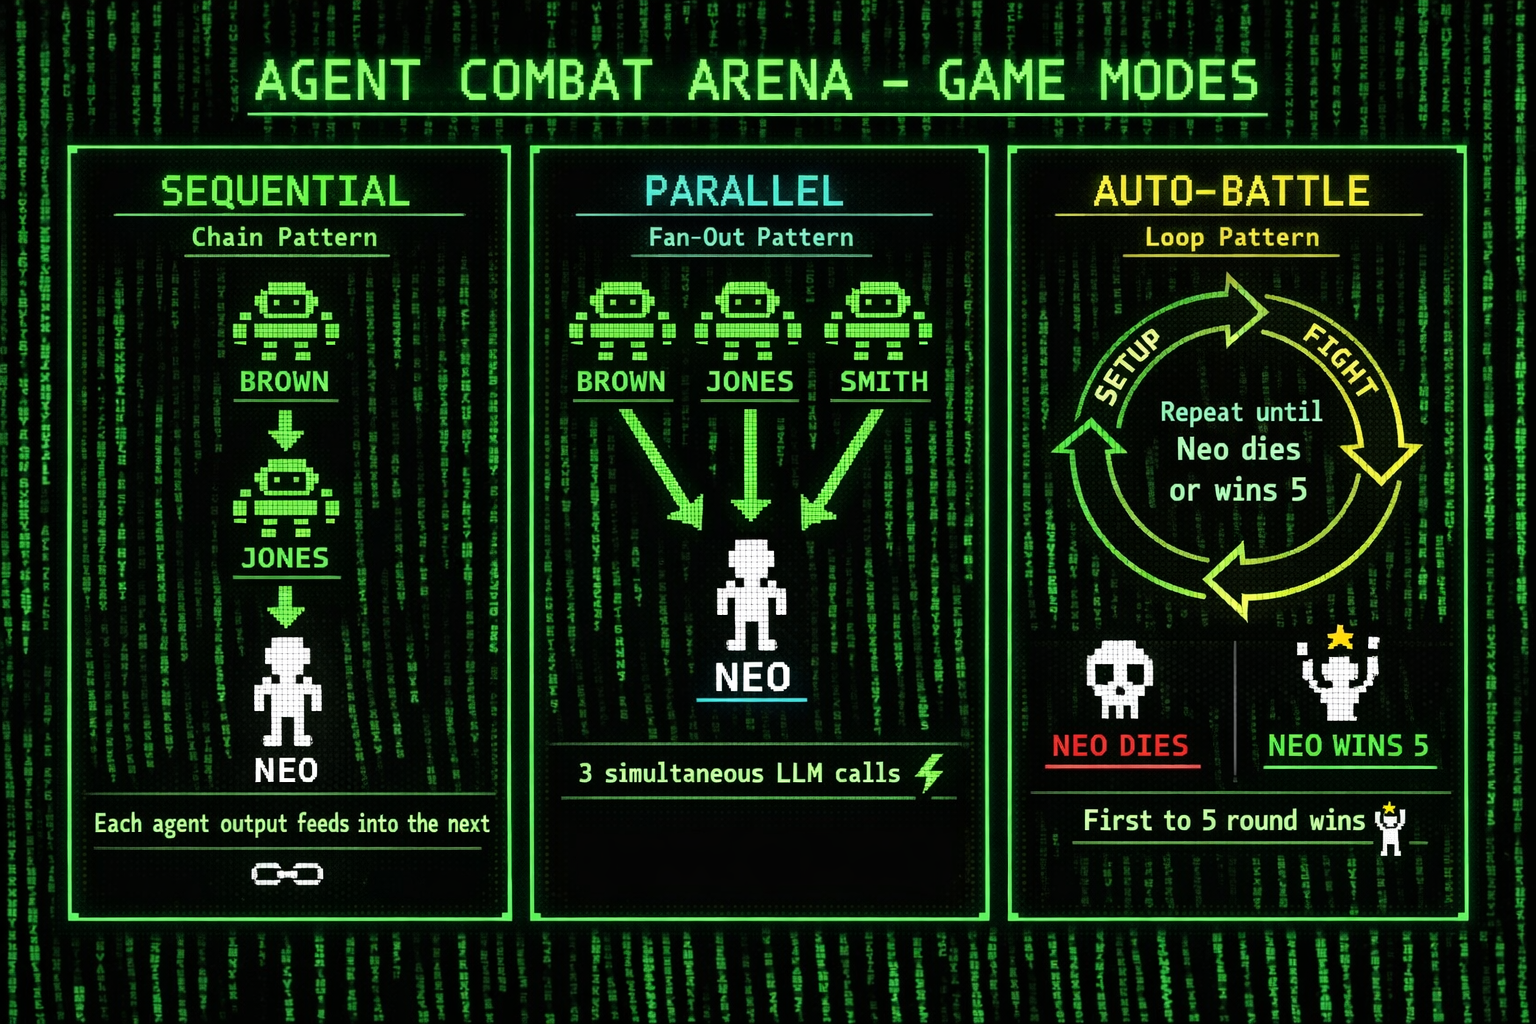
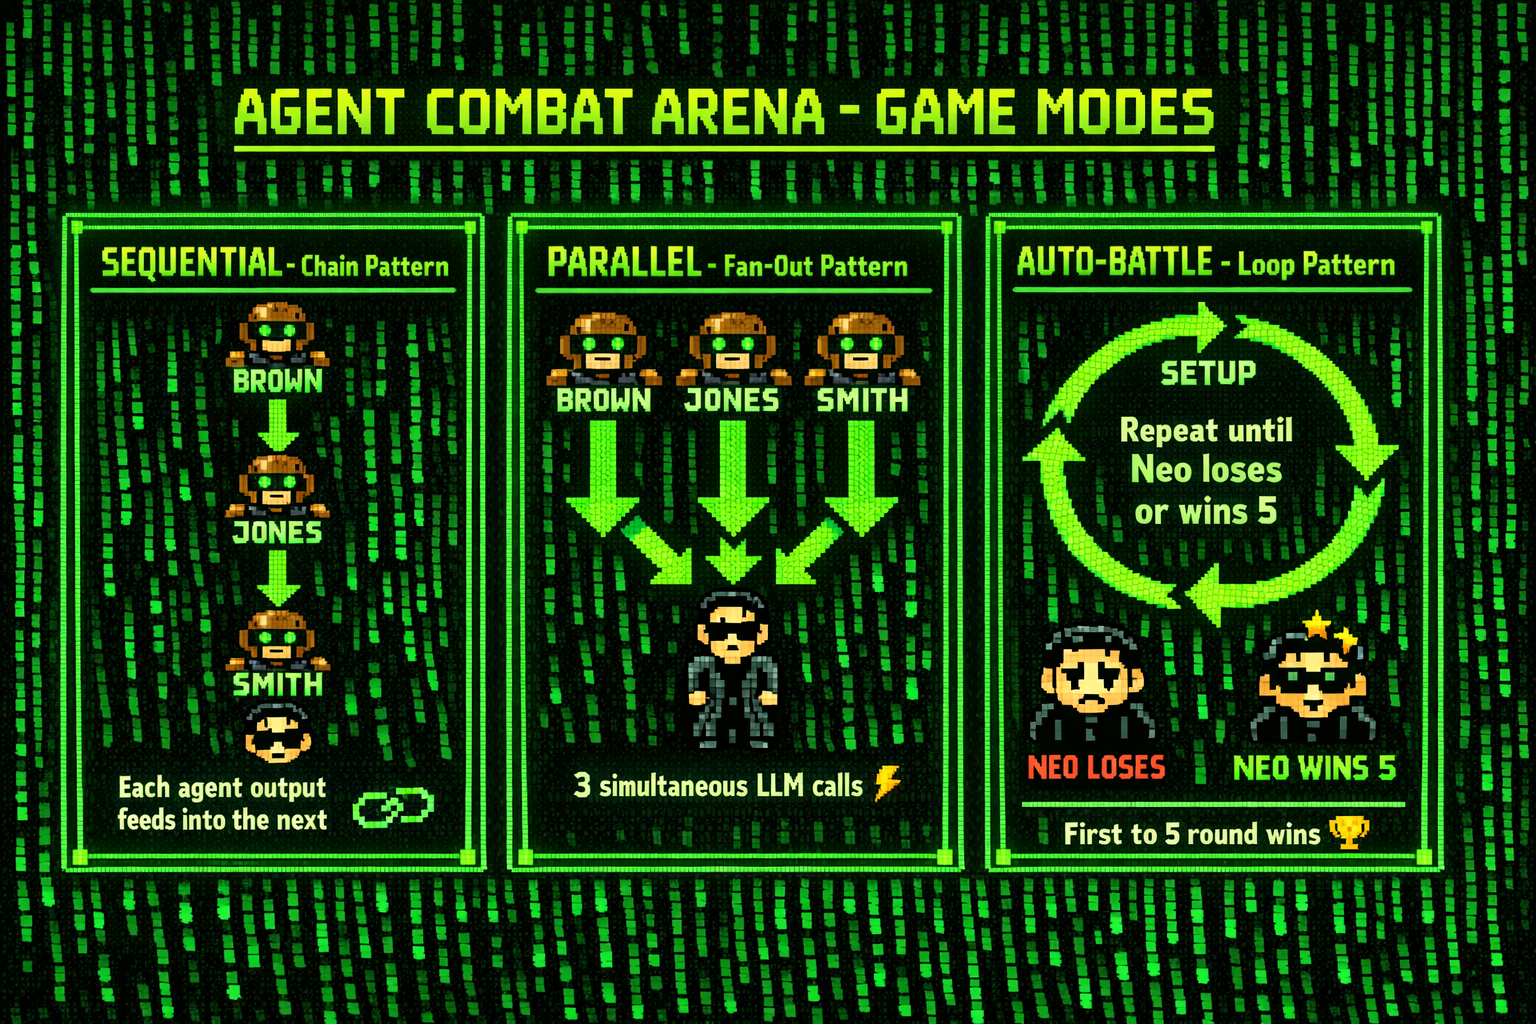
Update combat messaging and game logic: refine win/loss conditions for Neo and agents, enhance UI feedback, and clarify auto-battle mechanics in README

diff --git a/src/main/resources/static/index.html b/src/main/resources/static/index.html
@@ -751,11 +751,11 @@
             } else if (data.type === 'result') {
                 // Determine round winner from the message text
                 const msg = (data.message || '').toLowerCase();
-                const neoDied = msg.includes('neo is dead');
-                updateCharExpression('brown', neoDied ? 'win' : 'lose');
-                updateCharExpression('jones', neoDied ? 'win' : 'lose');
-                updateCharExpression('smith', neoDied ? 'win' : 'lose');
-                updateCharExpression('neo', neoDied ? 'lose' : 'win');
+                const neoLost = msg.includes('neo loses');
+                updateCharExpression('brown', neoLost ? 'win' : 'lose');
+                updateCharExpression('jones', neoLost ? 'win' : 'lose');
+                updateCharExpression('smith', neoLost ? 'win' : 'lose');
+                updateCharExpression('neo', neoLost ? 'lose' : 'win');
             }
         });
 
@@ -787,7 +787,7 @@
         document.getElementById('status-text').textContent = theOne ? 'Auto-battle (THE ONE)...' : 'Auto-battle...';
         const eventSource = new EventSource('/api/fight/parallel?theOne=' + theOne);
         let lastData = null;
-        let neoDied = false;
+        let neoLost = false;
         let roundCount = 0;
 
         eventSource.addEventListener('combat', (e) => {
@@ -800,7 +800,7 @@
 
             const agentKey = data.agent.toLowerCase();
             if (data.type === 'attack-win') {
-                neoDied = true;
+                neoLost = true;
                 updateCharExpression(agentKey, 'win');
                 updateCharExpression('neo', 'lose');
             } else if (data.type === 'attack') {
@@ -808,11 +808,11 @@
                 updateCharExpression('neo', 'win');
             } else if (data.type === 'result') {
                 const msg = (data.message || '').toLowerCase();
-                const dead = msg.includes('neo is dead');
-                updateCharExpression('brown', dead ? 'win' : 'lose');
-                updateCharExpression('jones', dead ? 'win' : 'lose');
-                updateCharExpression('smith', dead ? 'win' : 'lose');
-                updateCharExpression('neo', dead ? 'lose' : 'win');
+                const lost = msg.includes('neo loses');
+                updateCharExpression('brown', lost ? 'win' : 'lose');
+                updateCharExpression('jones', lost ? 'win' : 'lose');
+                updateCharExpression('smith', lost ? 'win' : 'lose');
+                updateCharExpression('neo', lost ? 'lose' : 'win');
             }
 
             if (data.agent === 'Brown' && data.type === 'attack-win') playAnimation('brown-wins');
@@ -825,10 +825,10 @@
 
         eventSource.onerror = () => {
             eventSource.close();
-            if (neoDied || (lastData && roundCount >= 5)) {
-                // Battle over — Neo died or survived 5 rounds
-                const neoWon = !neoDied && roundCount >= 5;
-                const winner = neoWon ? 'NEO SURVIVES 5 ROUNDS! The One cannot be stopped.' : 'NEO IS DEAD! The Matrix is restored.';
+            if (neoLost || (lastData && roundCount >= 5)) {
+                // Battle over — Neo lost or survived 5 rounds
+                const neoWon = !neoLost && roundCount >= 5;
+                const winner = neoWon ? 'NEO SURVIVES 5 ROUNDS! The One cannot be stopped.' : 'NEO LOSES! The Matrix is restored.';
                 updateCharExpression('brown', neoWon ? 'lose' : 'win');
                 updateCharExpression('jones', neoWon ? 'lose' : 'win');
                 updateCharExpression('smith', neoWon ? 'lose' : 'win');

diff --git a/src/main/java/com/agentsmith/service/CombatService.java b/src/main/java/com/agentsmith/service/CombatService.java
@@ -95,7 +95,7 @@ public class CombatService {
         int neoWins = 3 - agentWins;
         if (agentWins == 3) return "Agents win all 3 fights! Neo is overwhelmed.";
         if (agentWins == 0) return "Neo wins all 3 fights! The One cannot be stopped.";
-        return "Neo wins " + neoWins + " of 3, Agents win " + agentWins + " of 3. One kill is enough — agents win the round!";
+        return "Neo wins " + neoWins + " of 3, Agents win " + agentWins + " of 3. One win is enough — agents win the round!";
     }
 
     // ─── Pattern 1: Sequential (Chain) — Brown → Jones → Smith, each output → next input ───
@@ -113,10 +113,10 @@ public class CombatService {
             String brownResult = brownAgent.fight(prompt(round, brownWins));
             scoreAndEmit(emitter, "Brown", brownWins, brownResult, round);
 
-            // If Neo is dead, stop immediately — no point continuing
+            // If Neo lost, stop immediately — no point continuing
             if (brownWins) {
                 sendEvent(emitter, CombatEvent.of("Neo", "result",
-                        "Neo is dead. Brown killed him — fight over.", round, neoScore.get(), agentsScore.get()));
+                        "Neo loses. Brown beat him — fight over.", round, neoScore.get(), agentsScore.get()));
                 emitter.complete();
                 return;
             }
@@ -127,10 +127,10 @@ public class CombatService {
                     "Previous agent Brown's result: " + brownResult + ". " + prompt(round, jonesWins));
             scoreAndEmit(emitter, "Jones", jonesWins, jonesResult, round);
 
-            // If Neo is dead, stop immediately
+            // If Neo lost, stop immediately
             if (jonesWins) {
                 sendEvent(emitter, CombatEvent.of("Neo", "result",
-                        "Neo is dead. Jones killed him — fight over.", round, neoScore.get(), agentsScore.get()));
+                        "Neo loses. Jones beat him — fight over.", round, neoScore.get(), agentsScore.get()));
                 emitter.complete();
                 return;
             }
@@ -142,7 +142,7 @@ public class CombatService {
             scoreAndEmit(emitter, "Smith", smithWins, smithResult, round);
 
             String resultMsg = smithWins
-                    ? "Neo is dead. Smith killed him — fight over."
+                    ? "Neo loses. Smith beat him — fight over."
                     : "Neo wins all 3 fights! The One cannot be stopped.";
             sendEvent(emitter, CombatEvent.of("Neo", "result",
                     resultMsg, round, neoScore.get(), agentsScore.get()));
@@ -181,12 +181,12 @@ public class CombatService {
             if (agentWins == 0) {
                 resultMsg = "Neo wins all 3 fights! The One cannot be stopped.";
             } else {
-                // Build who killed Neo
-                StringBuilder killers = new StringBuilder();
-                if (brownWins) killers.append("Brown");
-                if (jonesWins) { if (killers.length() > 0) killers.append(" & "); killers.append("Jones"); }
-                if (smithWins) { if (killers.length() > 0) killers.append(" & "); killers.append("Smith"); }
-                resultMsg = "Neo is dead. " + killers + " killed him — fight over.";
+                // Build who defeated Neo
+                StringBuilder winners = new StringBuilder();
+                if (brownWins) winners.append("Brown");
+                if (jonesWins) { if (winners.length() > 0) winners.append(" & "); winners.append("Jones"); }
+                if (smithWins) { if (winners.length() > 0) winners.append(" & "); winners.append("Smith"); }
+                resultMsg = "Neo loses. " + winners + " beat him — fight over.";
             }
             sendEvent(emitter, CombatEvent.of("Neo", "result",
                     resultMsg, round, neoScore.get(), agentsScore.get()));
@@ -244,7 +244,7 @@ public class CombatService {
                 sendEvent(emitter, CombatEvent.of("Smith", sw ? "attack-win" : "attack",
                         fallbackMessage("Smith", sw, smithResult), round, neoScore.get(), agentsScore.get()));
 
-                // Any agent kill means Neo is dead — agents win the round
+                // Any agent win means Neo loses — agents win the round
                 int agentSubWins = (bw ? 1 : 0) + (jw ? 1 : 0) + (sw ? 1 : 0);
                 if (agentSubWins >= 1) { agentsScore.incrementAndGet(); }
                 else { neoScore.incrementAndGet(); }
@@ -256,17 +256,17 @@ public class CombatService {
                 if (agentSubWins == 0) {
                     result = "Neo wins all 3! The One cannot be stopped.";
                 } else {
-                    StringBuilder killers = new StringBuilder();
-                    if (bw) killers.append("Brown");
-                    if (jw) { if (killers.length() > 0) killers.append(" & "); killers.append("Jones"); }
-                    if (sw) { if (killers.length() > 0) killers.append(" & "); killers.append("Smith"); }
-                    result = "Neo is dead. " + killers + " killed him — fight over.";
+                    StringBuilder winners = new StringBuilder();
+                    if (bw) winners.append("Brown");
+                    if (jw) { if (winners.length() > 0) winners.append(" & "); winners.append("Jones"); }
+                    if (sw) { if (winners.length() > 0) winners.append(" & "); winners.append("Smith"); }
+                    result = "Neo loses. " + winners + " beat him — fight over.";
                 }
                 sendEvent(emitter, CombatEvent.of("Neo", "result", result,
                         round, neoScore.get(), agentsScore.get()));
             });
 
-            // Loop workflow: roundSetup → parallelCombat → roundScorer, repeat until Neo dies or wins 5
+            // Loop workflow: roundSetup → parallelCombat → roundScorer, repeat until Neo loses or wins 5
             var autoBattleLoop = AgenticServices
                     .loopBuilder()
                     .subAgents(roundSetup, parallelAgent, roundScorer)
@@ -274,14 +274,14 @@ public class CombatService {
                     .testExitAtLoopEnd(true)
                     .exitCondition(scope ->
                             scope.readState("neoScore", 0) >= 5 ||
-                            scope.readState("agentsScore", 0) >= 1)  // One death = game over
+                            scope.readState("agentsScore", 0) >= 1)  // One loss = game over
                     .build();
 
             // Run the loop with initial scope state
             autoBattleLoop.invoke(Map.of("theOne", theOne, "neoScore", 0, "agentsScore", 0, "round", 0));
 
             String winner = agentsScore.get() >= 1
-                    ? "NEO IS DEAD! The Matrix is restored."
+                    ? "NEO LOSES! The Matrix is restored."
                     : "NEO SURVIVES 5 ROUNDS! The One cannot be stopped.";
             sendEvent(emitter, CombatEvent.of("System", "system", winner,
                     currentRound.get(), neoScore.get(), agentsScore.get()));

diff --git a/README.md b/README.md
@@ -122,19 +122,19 @@ Open **http://localhost:8080** in your browser.
 
 <img src="./docs/game-modes.png" alt="Agent Combat Arena - Game Modes" width="800"/>
 
-*Three LangChain4j agentic patterns power the combat: Sequential chains each agent's output to the next, Parallel fans out all three fights simultaneously, and Auto-Battle loops until Neo dies or survives 5 rounds.*
+*Three LangChain4j agentic patterns power the combat: Sequential chains each agent's output to the next, Parallel fans out all three fights simultaneously, and Auto-Battle loops until Neo loses or survives 5 rounds.*
 
 | Button / Control | Pattern | What happens |
 |-----------------|---------|-------------|
 | **⚔ FIGHT** | Sequential (#1) | Brown → Jones → Smith fight Neo one after another |
 | **⚡ FAST** | Parallel (#2) | All three agents fight Neo simultaneously |
-| **🔄 AUTO 5** | Loop (#3) | Auto-battles — Neo must survive 5 rounds without a single agent kill |
+| **🔄 AUTO 5** | Loop (#3) | Auto-battles — Neo must survive 5 rounds without a single agent win |
 | **↺ RESET** | — | Resets scores to 0 |
 | **☑ NEO IS THE ONE** | Modifier | Makes Neo far stronger (agents drop to 15/10/20% win chance) |
 
-- Each round, all three agents fight Neo — the round summary shows the breakdown (e.g. *"Neo wins 2 of 3, Agents win 1 of 3. One kill is enough — agents win the round!"*)
+- Each round, all three agents fight Neo — the round summary shows the breakdown (e.g. *"Neo wins 2 of 3, Agents win 1 of 3. One win is enough — agents win the round!"*)
 - **Sequential / Parallel**: Each sub-fight awards 1 point to the winner independently
-- **Auto-battle**: If **any** agent kills Neo, Neo is dead and the battle ends immediately. Neo must survive all 3 agents in every round for 5 rounds to win.
+- **Auto-battle**: If **any** agent beats Neo, Neo loses and the battle ends immediately. Neo must survive all 3 agents in every round for 5 rounds to win.
 - **Normal mode**: Agent win chances per sub-fight: Brown 60%, Jones 55%, Smith 65% (agents favored)
 - **"The One" mode**: Agent win chances drop to Brown 15%, Jones 10%, Smith 20% (Neo dominates)
 - Real-time **progress logging** shows backend activity (agent init, LLM calls, response status)
@@ -145,7 +145,7 @@ Open **http://localhost:8080** in your browser.
 | Mode | How scoring works |
 |------|-------------------|
 | **Sequential / Parallel** | Each agent sub-fight awards 1 point to the winner (Neo or Agents) |
-| **Auto-battle (Loop)** | **Survival**: If any agent lands a kill, Neo is dead — game over. Neo must survive all 3 agents for 5 consecutive rounds to win. |
+| **Auto-battle (Loop)** | **Survival**: If any agent beats Neo, Neo loses — game over. Neo must survive all 3 agents for 5 consecutive rounds to win. |
 
 ## How the LangChain4j Agentic Patterns Work
 
@@ -185,7 +185,7 @@ The auto-battle uses `AgenticServices.loopBuilder()` with three sub-agents per i
 2. **`parallelAgent`** — the same parallel fan-out from Pattern 2, running all 3 LLM calls concurrently
 3. **`roundScorer`** — a non-AI `agentAction` that reads results from scope, scores the round, and emits SSE events
 
-The loop repeats until the `exitCondition` is met (Neo dies or survives 5 rounds). This shows how `loopBuilder` orchestrates a mix of AI and non-AI agents in a repeating workflow with shared state.
+The loop repeats until the `exitCondition` is met (Neo loses or survives 5 rounds). This shows how `loopBuilder` orchestrates a mix of AI and non-AI agents in a repeating workflow with shared state.
 
 ### Agent Definitions
 
